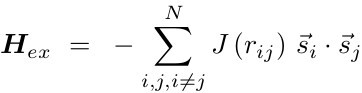
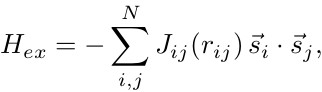
Commit JT 111519 - modified documentation spin (compute and exchange) - modified compute spin for Ts

diff --git a/doc/src/Eqs/pair_spin_exchange_interaction.tex b/doc/src/Eqs/pair_spin_exchange_interaction.tex
@@ -1,11 +1,15 @@
 \documentclass[preview]{standalone}
 \usepackage{varwidth}
 \usepackage[utf8x]{inputenc}
-\usepackage{amsmath,amssymb,amsthm,bm}
+\usepackage{amsmath, amssymb, graphics, setspace}
+
 \begin{document}
 \begin{varwidth}{50in}
   \begin{equation}
-    \bm{H}_{ex} ~=~ -\sum_{i,j,i\neq j}^{N} {J} \left(r_{ij} \right)\, \vec{s}_{i}\cdot \vec{s}_{j} \nonumber
+    H_{ex} = 
+    -\sum_{i,j}^N J_{ij} (r_{ij}) \,\vec{s}_i \cdot \vec{s}_j 
+    %&{\rm ~if~}& \vec{m}_i^I \times \vec{m}_i^F  
+  , \nonumber
   \end{equation}
 \end{varwidth}
 \end{document}

diff --git a/src/SPIN/compute_spin.cpp b/src/SPIN/compute_spin.cpp
@@ -129,7 +129,8 @@ void ComputeSpin::compute_vector()
   magtot[2] *= scale;
   magtot[3] = sqrt((magtot[0]*magtot[0])+(magtot[1]*magtot[1])+(magtot[2]*magtot[2]));
   spintemperature = hbar*tempnumtot;
-  spintemperature /= (kb*tempdenomtot);
+  // spintemperature /= (kb*tempdenomtot);
+  spintemperature /= (2.0*kb*tempdenomtot);
 
   vector[0] = magtot[0];
   vector[1] = magtot[1];